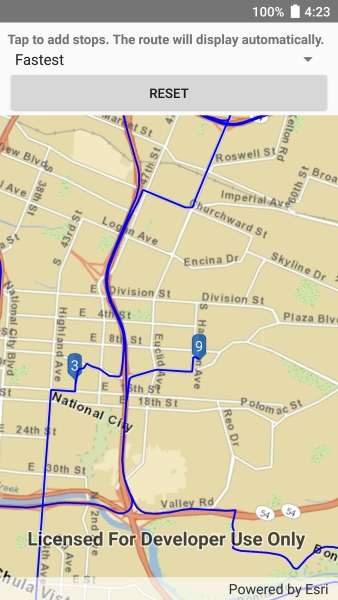
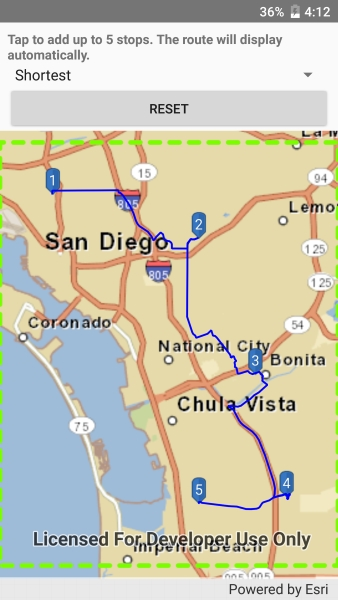
Changes from review
Not including Xamarin because it didn't feel like working today, so I've got to go over to the mac, sigh

diff --git a/src/Forms/Shared/Samples/Network Analysis/OfflineRouting/OfflineRouting.xaml b/src/Forms/Shared/Samples/Network Analysis/OfflineRouting/OfflineRouting.xaml
@@ -36,18 +36,12 @@
                     </RowDefinition>
                 </Grid.RowDefinitions>
                 <Label
-                    Text="Click the map to add a stop. Route lines will be displayed automatically."
+                    Text="Click the map to add up to 5 stops. Route lines will be displayed automatically."
                     Grid.Row="0" />
                 <Picker x:Name="TravelModesCombo"
                         Grid.Row="1"
-                        Margin="0,5,0,5"
-                        ItemDisplayBinding="{Binding Name}">
-                    <Picker.TextColor>
-                        <OnPlatform x:TypeArguments="Color">
-                            <On Platform="Android" Value="Black" />
-                        </OnPlatform>
-                    </Picker.TextColor>
-                </Picker>
+                        Margin="0,5,0,5" TextColor="Black"
+                        ItemDisplayBinding="{Binding Name}" />
                 <Button Text="Reset"
                         Grid.Row="2"
                         Clicked="ResetButton_Click" />

diff --git a/src/UWP/ArcGISRuntime.UWP.Viewer/Samples/Network Analysis/OfflineRouting/OfflineRouting.xaml b/src/UWP/ArcGISRuntime.UWP.Viewer/Samples/Network Analysis/OfflineRouting/OfflineRouting.xaml
@@ -14,7 +14,7 @@
                     <RowDefinition Height="Auto" />
                 </Grid.RowDefinitions>
                 <TextBlock
-                    Text="Click the map to add a stop. Click again to finish placing it. Route lines will be displayed on-the-fly."
+                    Text="Click the map to add up to 5 stops. Click again to finish placing it. Route lines will be displayed on-the-fly."
                     Grid.Row="0" Grid.Column="0"
                     FontWeight="SemiBold" TextWrapping="Wrap" />
                 <ComboBox x:Name="TravelModesCombo"

diff --git a/src/WPF/ArcGISRuntime.WPF.Viewer/Samples/Network Analysis/OfflineRouting/OfflineRouting.xaml b/src/WPF/ArcGISRuntime.WPF.Viewer/Samples/Network Analysis/OfflineRouting/OfflineRouting.xaml
@@ -13,7 +13,7 @@
                     <RowDefinition Height="Auto" />
                 </Grid.RowDefinitions>
                 <TextBlock
-                    Text="Click the map to add a stop. Click again to finish placing it. Route lines will be displayed on-the-fly."
+                    Text="Click the map to add up to 5 stops. Click again to finish placing it. Route lines will be displayed on-the-fly."
                     Grid.Row="0" Grid.Column="0"
                     FontWeight="SemiBold" TextWrapping="Wrap" />
                 <ComboBox x:Name="TravelModesCombo"

diff --git a/src/WPF/ArcGISRuntime.WPF.Viewer/Samples/Network Analysis/OfflineRouting/OfflineRouting.xaml.cs b/src/WPF/ArcGISRuntime.WPF.Viewer/Samples/Network Analysis/OfflineRouting/OfflineRouting.xaml.cs
@@ -7,15 +7,14 @@
 // "AS IS" BASIS, WITHOUT WARRANTIES OR CONDITIONS OF ANY KIND, either express or implied. See the License for the specific
 // language governing permissions and limitations under the License.
 
-using System;
 using ArcGISRuntime.Samples.Managers;
-using Esri.ArcGISRuntime.Data;
 using Esri.ArcGISRuntime.Geometry;
 using Esri.ArcGISRuntime.Mapping;
 using Esri.ArcGISRuntime.Symbology;
 using Esri.ArcGISRuntime.Tasks.NetworkAnalysis;
 using Esri.ArcGISRuntime.UI;
 using Esri.ArcGISRuntime.UI.Controls;
+using System;
 using System.Collections.Generic;
 using System.Diagnostics;
 using System.Drawing;
@@ -274,7 +273,7 @@ namespace ArcGISRuntime.WPF.Samples.OfflineRouting
             }
             else if (_selectedStopGraphic == null)
             {
-                ShowMessage("Can't add stop.", "Don't add more than 5 stops.");
+                ShowMessage("Can't add stop.", "Sample limits to 5 stops per route.");
             }
             else
             {

diff --git a/src/Android/Xamarin.Android/Samples/Network Analysis/OfflineRouting/OfflineRouting.cs b/src/Android/Xamarin.Android/Samples/Network Analysis/OfflineRouting/OfflineRouting.cs
@@ -258,6 +258,13 @@ namespace ArcGISRuntimeXamarin.Samples.OfflineRouting
 
         private void MapView_Tapped(object sender, GeoViewInputEventArgs e)
         {
+            // Make sure the user isn't adding too many stops.
+            if (_stopsOverlay.Graphics.Count >= 5)
+            {
+                ShowMessage("Can't add stop.", "Sample limits to 5 stops per route.");
+                return;
+            }
+
             // Make sure the stop is valid before proceeding.
             if (!GeometryEngine.Contains(_routableArea, e.Location))
             {
@@ -308,7 +315,7 @@ namespace ArcGISRuntimeXamarin.Samples.OfflineRouting
             _resetButton.Click += ResetButton_Click;
 
             // Update the label text.
-            _instructionLabel.Text = "Tap to add stops. The route will display automatically.";
+            _instructionLabel.Text = "Tap to add up to 5 stops. The route will display automatically.";
         }
     }
 }

diff --git a/src/UWP/ArcGISRuntime.UWP.Viewer/Samples/Network Analysis/OfflineRouting/OfflineRouting.xaml.cs b/src/UWP/ArcGISRuntime.UWP.Viewer/Samples/Network Analysis/OfflineRouting/OfflineRouting.xaml.cs
@@ -8,7 +8,6 @@
 // language governing permissions and limitations under the License.
 
 using ArcGISRuntime.Samples.Managers;
-using Esri.ArcGISRuntime.Data;
 using Esri.ArcGISRuntime.Geometry;
 using Esri.ArcGISRuntime.Mapping;
 using Esri.ArcGISRuntime.Symbology;
@@ -23,7 +22,6 @@ using System.Linq;
 using System.Reflection;
 using System.Threading.Tasks;
 using Windows.Foundation;
-using Windows.UI.Popups;
 using Windows.UI.Xaml;
 using Windows.UI.Xaml.Controls;
 using Windows.UI.Xaml.Input;
@@ -274,7 +272,7 @@ namespace ArcGISRuntime.UWP.Samples.OfflineRouting
             }
             else if (_selectedStopGraphic == null)
             {
-                ShowMessage("Can't add stop.", "Don't add more than 5 stops.");
+                ShowMessage("Can't add stop.", "Sample limits to 5 stops per route.");
             }
             else
             {

diff --git a/src/Forms/Shared/Samples/Network Analysis/OfflineRouting/OfflineRouting.xaml.cs b/src/Forms/Shared/Samples/Network Analysis/OfflineRouting/OfflineRouting.xaml.cs
@@ -239,6 +239,13 @@ namespace ArcGISRuntimeXamarin.Samples.OfflineRouting
 
         private void MapView_Tapped(object sender, Esri.ArcGISRuntime.Xamarin.Forms.GeoViewInputEventArgs e)
         {
+            // Make sure the user isn't adding too many stops.
+            if (_stopsOverlay.Graphics.Count >= 5)
+            {
+                ShowMessage("Can't add stop.", "Sample limits to 5 stops per route.");
+                return;
+            }
+
             // Make sure the stop is valid before proceeding.
             if (!GeometryEngine.Contains(_routableArea, e.Location))
             {

diff --git a/src/iOS/Xamarin.iOS/Samples/Network Analysis/OfflineRouting/OfflineRouting.cs b/src/iOS/Xamarin.iOS/Samples/Network Analysis/OfflineRouting/OfflineRouting.cs
@@ -255,6 +255,13 @@ namespace ArcGISRuntimeXamarin.Samples.OfflineRouting
 
         private void MapView_Tapped(object sender, GeoViewInputEventArgs e)
         {
+            // Make sure the user isn't adding too many stops.
+            if (_stopsOverlay.Graphics.Count >= 5)
+            {
+                ShowMessage("Can't add stop.", "Sample limits to 5 stops per route.");
+                return;
+            }
+
             // Make sure the stop is valid before proceeding.
             if (!GeometryEngine.Contains(_routableArea, e.Location))
             {

diff --git a/src/WPF/ArcGISRuntime.WPF.Viewer/Samples/Network Analysis/OfflineRouting/readme.md b/src/WPF/ArcGISRuntime.WPF.Viewer/Samples/Network Analysis/OfflineRouting/readme.md
@@ -6,7 +6,7 @@ Solve a route on-the-fly using offline data.
 
 ## How to use the sample
 
-Click near a road to start adding a stop to the route, click again to place it on the map. A number graphic will show its order in the route. After adding at least 2 stops, a route will display. Choose "Fastest" or "Shortest" to control how the route is optimized. The route will update on-the-fly while moving stops. The green box marks the boundary of the routable area provided by the offline data.
+Click near a road to start adding a stop to the route, click again to place it on the map. A number graphic will show its order in the route. After adding at least 2 stops, a route will display. Choose "Fastest" or "Shortest" to control how the route is optimized. The route will update on-the-fly while moving stops. The green box marks the boundary of the routable area provided by the offline data. This sample limits routes to 5 stops for performance reasons.
 
 ## How it works
 

diff --git a/src/UWP/ArcGISRuntime.UWP.Viewer/Samples/Network Analysis/OfflineRouting/readme.md b/src/UWP/ArcGISRuntime.UWP.Viewer/Samples/Network Analysis/OfflineRouting/readme.md
@@ -6,7 +6,7 @@ Solve a route on-the-fly using offline data.
 
 ## How to use the sample
 
-Click near a road to start adding a stop to the route, click again to place it on the map. A number graphic will show its order in the route. After adding at least 2 stops, a route will display. Choose "Fastest" or "Shortest" to control how the route is optimized.The route will update on-the-fly while moving stops. The green box marks the boundary of the routable area provided by the offline data.
+Click near a road to start adding a stop to the route, click again to place it on the map. A number graphic will show its order in the route. After adding at least 2 stops, a route will display. Choose "Fastest" or "Shortest" to control how the route is optimized.The route will update on-the-fly while moving stops. The green box marks the boundary of the routable area provided by the offline data. This sample limits routes to 5 stops for performance reasons.
 
 ## How it works
 

diff --git a/src/Android/Xamarin.Android/Samples/Network Analysis/OfflineRouting/readme.md b/src/Android/Xamarin.Android/Samples/Network Analysis/OfflineRouting/readme.md
@@ -6,7 +6,7 @@ Solve a route on-the-fly using offline data.
 
 ## How to use the sample
 
-Tap near a road to add a stop to the route. A number graphic will show its order in the route. After adding at least 2 stops, a route will display. Choose "Fastest" or "Shortest" to control how the route is optimized. The green box marks the boundary of the routable area provided by the offline data.
+Tap near a road to add a stop to the route. A number graphic will show its order in the route. After adding at least 2 stops, a route will display. Choose "Fastest" or "Shortest" to control how the route is optimized. The green box marks the boundary of the routable area provided by the offline data. This sample limits routes to 5 stops for performance reasons.
 
 ## How it works
 

diff --git a/src/Forms/Shared/Samples/Network Analysis/OfflineRouting/readme.md b/src/Forms/Shared/Samples/Network Analysis/OfflineRouting/readme.md
@@ -6,7 +6,7 @@ Solve a route on-the-fly using offline data.
 
 ## How to use the sample
 
-Tap near a road to add a stop to the route. A number graphic will show its order in the route. After adding at least 2 stops, a route will display. Choose "Fastest" or "Shortest" to control how the route is optimized. The green box marks the boundary of the routable area provided by the offline data.
+Tap near a road to add a stop to the route. A number graphic will show its order in the route. After adding at least 2 stops, a route will display. Choose "Fastest" or "Shortest" to control how the route is optimized. The green box marks the boundary of the routable area provided by the offline data. This sample limits routes to 5 stops for performance reasons.
 
 ## How it works
 
